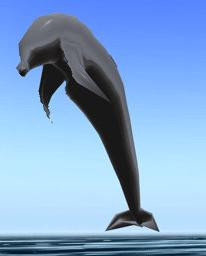
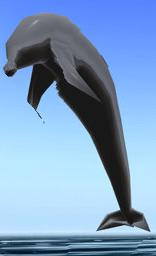
fixed entropy bugs (but still infinite looping)

Changed region(s): [[0.1538, 0.0312, 0.9744, 1.0], [0.0, 0.0312, 0.2308, 0.3125], [0.0, 0.9375, 0.0513, 1.0]]

diff --git a/energy.py b/energy.py
@@ -1,4 +1,4 @@
-from math import fabs
+from math import fabs, log
 #gets energy using e1 algorithm. helper methods may be added later
 
 def three_three_filter(pixel, neighbors, a, b):
@@ -51,20 +51,21 @@ def Scharr_five_op(pixel, neighbors):
     return five_five_filter(pixel, neighbors, 6, 3, 2, 2, 1, 1)
 #gets energy using entropy algorithm. helper methods may be added later
 def entropy(pixel, square):
-        hist_len = square.length
-	dim = sqrt(hist_len)
-	histogram = {}
-	for x in range (hist_len):
-                try:
-                       histogram[square[x]] += 1
-                except KeyError: 
-                       histogram[square[x]] = 1
-        square_prob = [float(v)/hist_len for k, v in d.iteritems()]
+    print pixel.pos
+    hist_len = len(square)
+    dim = hist_len**(.5)
+    histogram = {}
+    for x in range (hist_len):
+        try:
+            histogram[square[x]] += 1
+        except KeyError: 
+            histogram[square[x]] = 1
+    square_prob = [float(v)/hist_len for k, v in histogram.iteritems()]
 
-        #Shannon entropy formula with a base 2 log. Source:
-        #http://upload.wikimedia.org/math/8/7/e/87efdf0d38947240683250d3a24466e0.png
-        pixel.energy = -sum([p*(math.log(p, 2)) for p in square_prob])
+    #Shannon entropy formula with a base 2 log. Source:
+    #http://upload.wikimedia.org/math/8/7/e/87efdf0d38947240683250d3a24466e0.png
+    pixel.energy = -sum([p*(log(p, 2)) for p in square_prob])
 
-        pixel.recalculate = False
+    pixel.recalculate = False
 
-        return pixel
+    return pixel

diff --git a/image.py b/image.py
@@ -129,7 +129,7 @@ class sc_Image:
         def set_energy_e1 (pixel):
             self.dim = 3
             if pixel.recalculate :
-                return e1 (pixel, self.get_neighbors (pixel.pos,self.pixels,3) )
+                return e1 (pixel, self.get_neighbors (pixel.pos,self.pixels,self.dim) )
             else :
                 return pixel
 
@@ -143,7 +143,7 @@ class sc_Image:
         def set_energy_entropy(pixel):
             self.dim = 9
             if pixel.recalculate :
-                return entropy (pixel, self.get_neighbors (pixel.pos,self.pixels,9) )
+                return entropy (pixel, self.get_neighbors (pixel.pos,self.pixels,self.dim) )
             else :
                 return pixel
 
@@ -230,7 +230,7 @@ class sc_Image:
         original_pixels = self.pixels
         gray_pixels, w, h = from_pil (to_grayscale(self.PIL))
         self.pixels = gray_pixels
-        self.set_energies('e1')
+        self.set_energies('entropy')
 
         data = [0] * (self.width * self.height)
         for w in range (self.width):

diff --git a/main.py b/main.py
@@ -2,10 +2,10 @@ import image
 
 im = image.sc_Image.from_filepath2("dolphin.jpg")
 
-im.to_energy_pic('skateboarder_energy2.jpg')
-im.shrink(50, alg = 'dyn', orientation = 'horizontal')
+#im.to_energy_pic('skateboarder_energy2.jpg')
+#im.shrink(50, alg = 'dyn', orientation = 'horizontal')
 im.to_energy_pic('dolphin_energy2.jpg')
-im.shrink(100, alg = 'dyn', energy = "e1_five")
+im.shrink(50, alg = 'dyn', energy = "entropy")
 # image.shrink( 'horizontal', 300 , 'e1', 'dyn')
 
 im.to_jpeg("dolphin_kroon.jpg")
